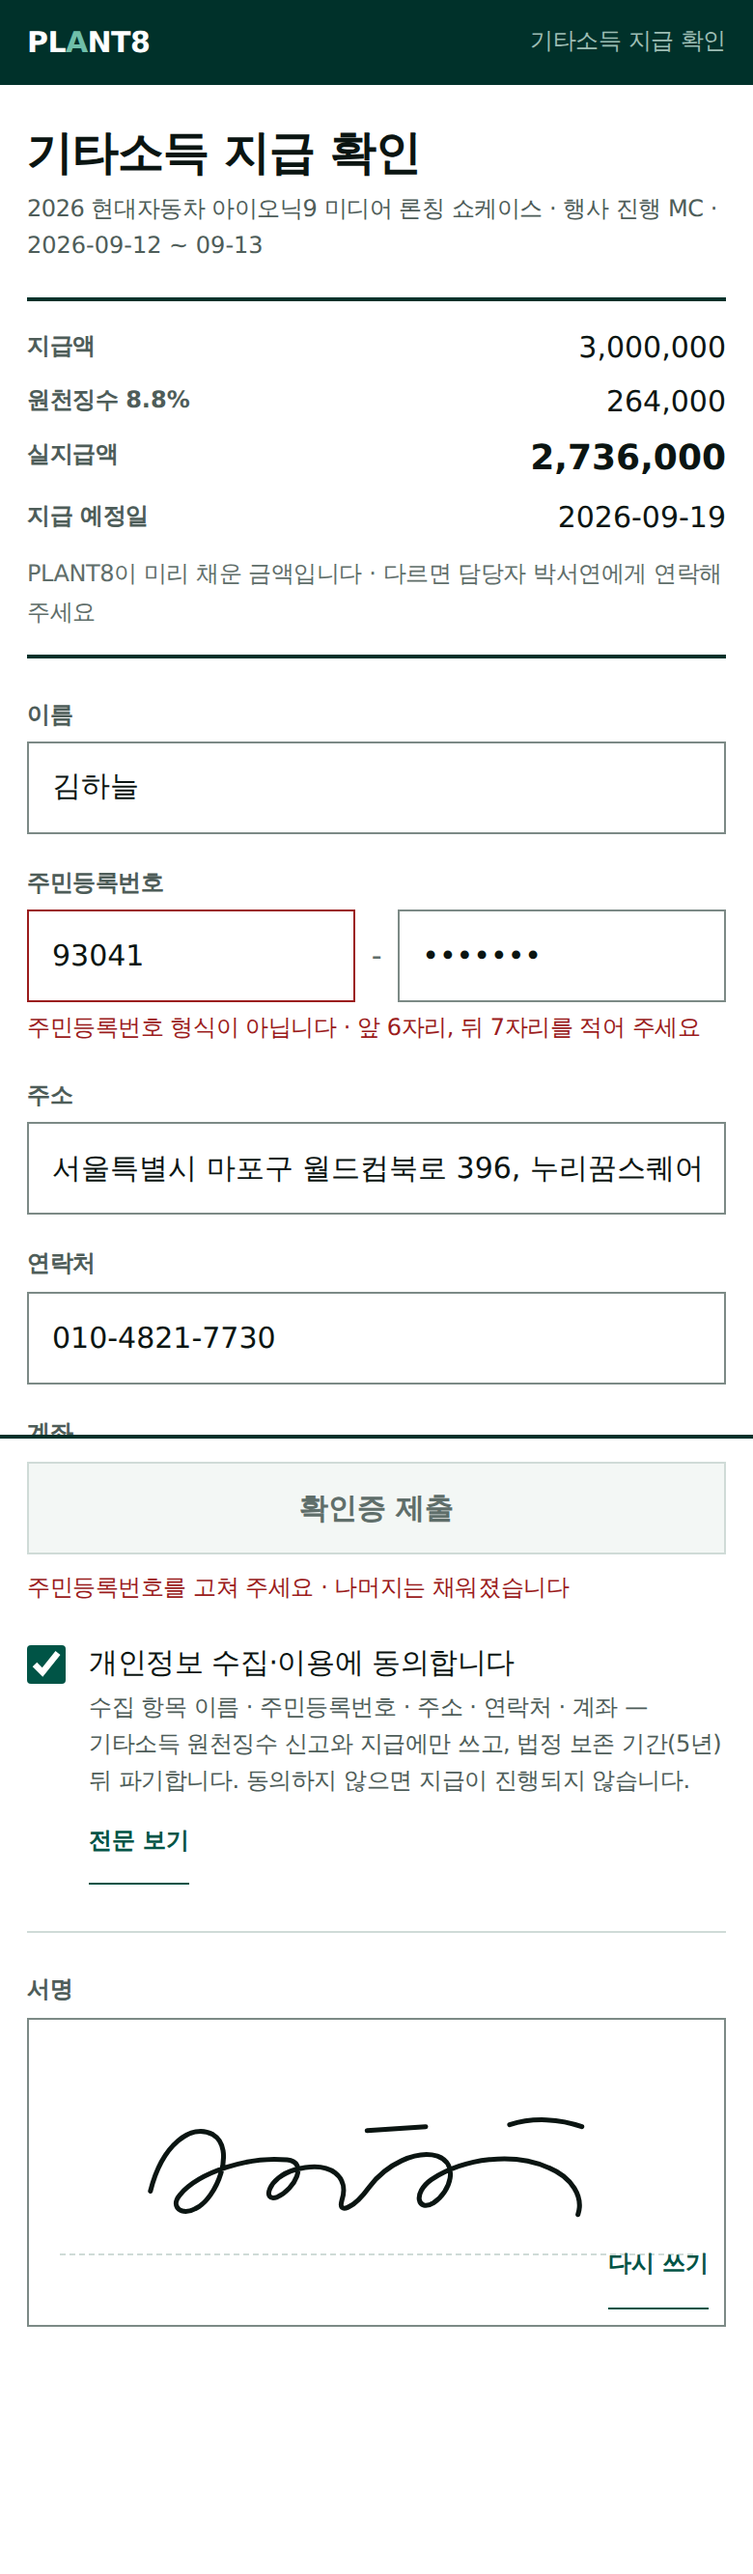
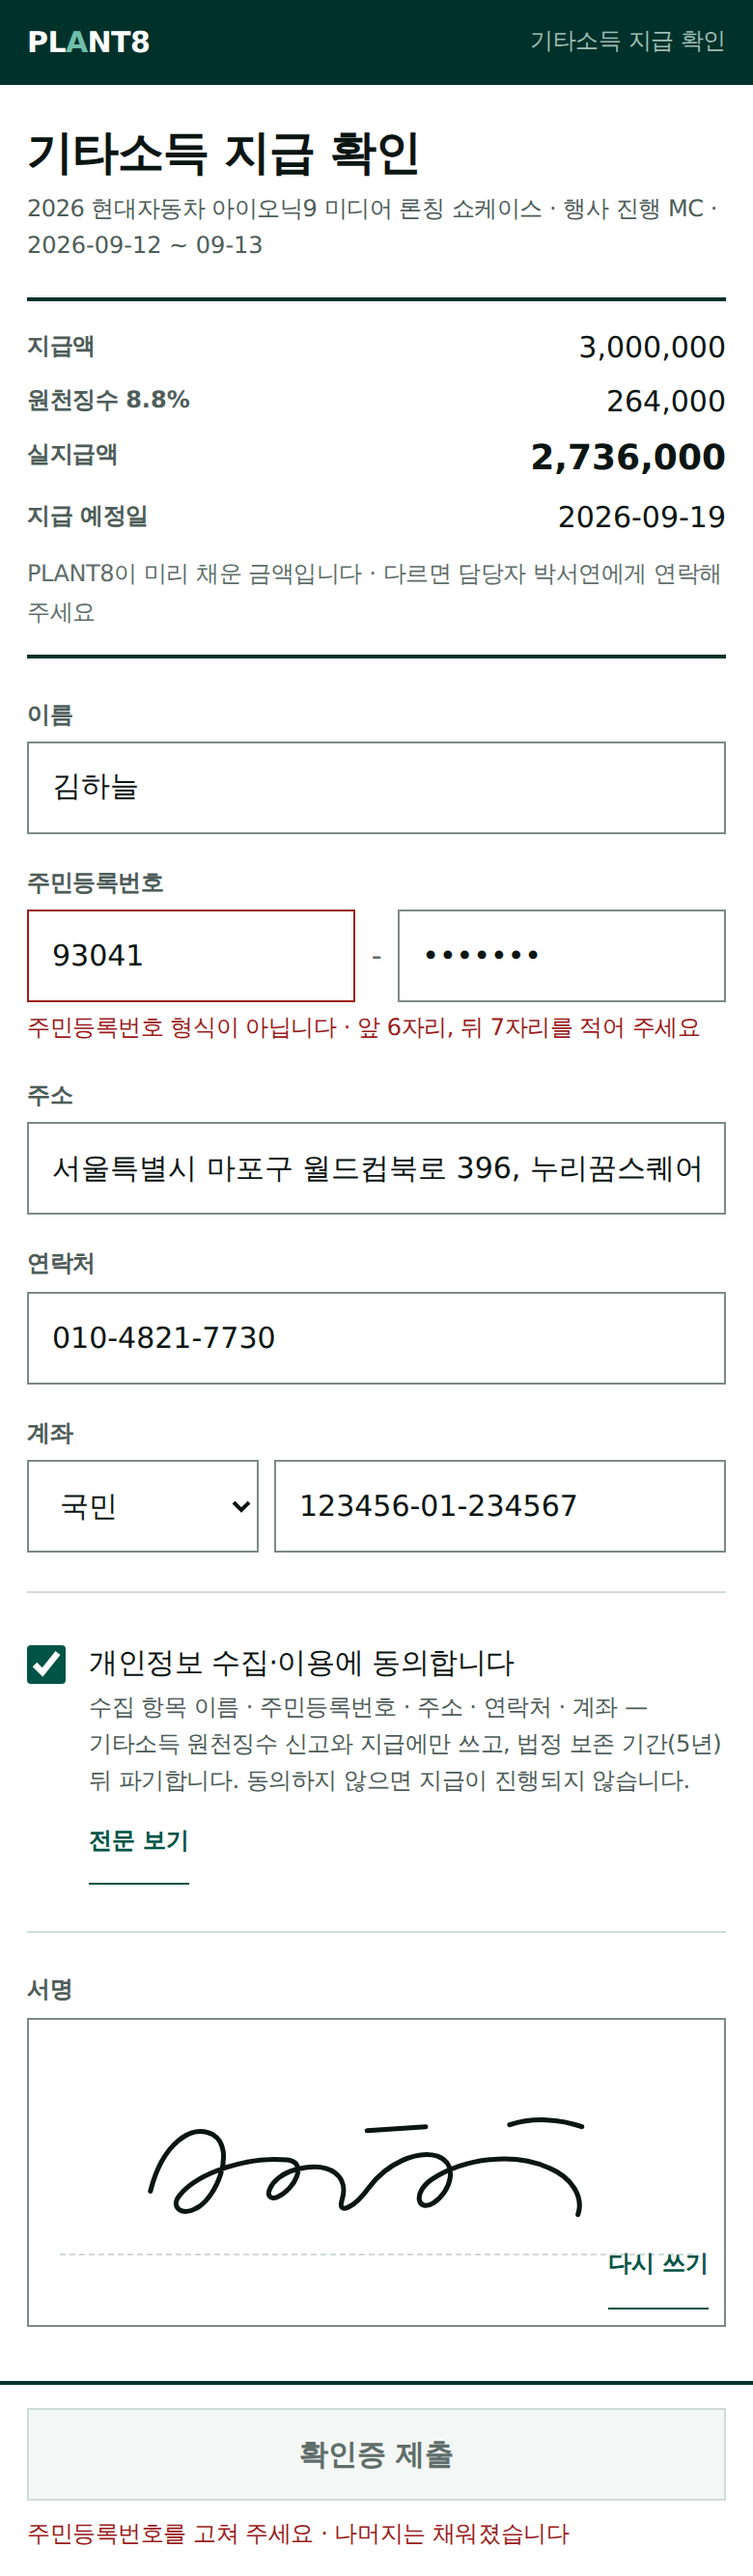
fix: 초안 폰 캡처 어긋남 3건 + 전체 캡처 뷰포트
- 손익 원장: 그룹 행·합계 행의 빈 첫 칸에 `rn`을 붙여 폰에서 숨김
  (그룹 머리·「합계」가 가운데로 밀리던 원인). 숫자·막대 열은 `width:1%`
- 외부 수령자: 제출 줄을 `position:fixed`에서 `main` 안 `sticky`로.
  화면 동작은 같고 전체 캡처에서 본문을 가리지 않는다
- shoot.mjs: 전체 캡처는 뷰포트를 문서 높이로 늘린 뒤 찍는다(고정 요소가
  문서 끝에 놓임). 손익 원장 폰 첫 화면 장면 `pnl-m-view` 추가

Claude-Session: https://claude.ai/code/session_01MwoSZSUG1tWADvG16RK3Ss

diff --git a/docs/design/system/dashboard-pnl.html b/docs/design/system/dashboard-pnl.html
@@ -106,6 +106,8 @@ body:not([data-scene="lead"]) .sub-lead{display:none}
   .next .why{display:block;font-size:var(--fs-sm)}
   .sec .right{margin-left:0;flex-basis:100%}
   .goal i{width:56px}
+  td.goalcell,thead th.goalcell{width:1%;white-space:nowrap}
+  tbody td.num,tfoot td.num{width:1%}
   .tabs{position:fixed;left:0;right:0;bottom:0;height:var(--touch-min);background:var(--bg);border-top:var(--line-w-strong) solid var(--line-strong);display:flex;z-index:var(--z-bar)}
   .tabs a{flex:1;display:flex;align-items:center;justify-content:center;font-size:var(--fs-sm);font-weight:var(--fw-medium);color:var(--muted);text-decoration:none}
   .tabs a[aria-current]{color:var(--accent);box-shadow:var(--inset-tab)}
@@ -147,7 +149,7 @@ body:not([data-scene="lead"]) .sub-lead{display:none}
       <th class="rn"></th><th>프로젝트</th><th class="p3 ceo-only">팀</th><th class="num p2">견적</th><th class="num p2">확정 비용</th><th class="num">수익</th><th class="num p3">수익률</th><th class="goalcell">목표 대비</th>
     </tr></thead>
     <tbody>
-      <tr class="grp"><td></td><td colspan="7">진행 중 <span class="num" style="text-align:left">5</span></td></tr>
+      <tr class="grp"><td class="rn"></td><td colspan="7">진행 중 <span class="num" style="text-align:left">5</span></td></tr>
       <tr>
         <td class="rn">1</td>
         <td>2026 현대자동차 아이오닉9 미디어 론칭 쇼케이스<span class="fold">기획1팀 · 견적 48,000,000 · 비용 22,400,000 · 25.2%</span></td>
@@ -178,7 +180,7 @@ body:not([data-scene="lead"]) .sub-lead{display:none}
         <td class="p3 ceo-only">기획2팀</td><td class="num p2">27,000,000</td><td class="num p2">19,800,000</td><td class="num">2,403,000</td><td class="num p3">8.9%</td>
         <td class="goalcell"><span class="goal"><span class="na">—</span></span></td>
       </tr>
-      <tr class="grp"><td></td><td colspan="7">완료 · 정산 <span class="num" style="text-align:left">2</span></td></tr>
+      <tr class="grp"><td class="rn"></td><td colspan="7">완료 · 정산 <span class="num" style="text-align:left">2</span></td></tr>
       <tr>
         <td class="rn">6</td>
         <td>신세계 VIP 라운지 리뉴얼<span class="fold">기획1팀 · 견적 210,000,000 · 비용 148,800,000 · <span class="st ok">정산 09-08</span></span></td>
@@ -194,7 +196,7 @@ body:not([data-scene="lead"]) .sub-lead{display:none}
       <tr class="empty-row"><td class="empty" colspan="8">이 기간에 프로젝트가 없습니다 · <button class="b3">기간 바꾸기</button></td></tr>
     </tbody>
     <tfoot><tr>
-      <td></td><td>합계<span class="lbl">계산된 것만 · 6건 · 계산 불가 1건 제외</span></td><td class="p3 ceo-only"></td>
+      <td class="rn"></td><td>합계<span class="lbl">계산된 것만 · 6건 · 계산 불가 1건 제외</span></td><td class="p3 ceo-only"></td>
       <td class="num p2 sub-ceo">482,000,000</td><td class="num p2 sub-ceo">324,900,000</td><td class="num sub-ceo">110,125,720</td><td class="num p3 sub-ceo">22.8%</td>
       <td class="num p2 sub-lead">322,000,000</td><td class="num p2 sub-lead">210,100,000</td><td class="num sub-lead">86,806,720</td><td class="num p3 sub-lead">27.0%</td>
       <td class="goalcell"><span class="goal"><i><b style="width:100%"></b></i><span>104%</span></span></td>

diff --git a/docs/design/system/external-cert.html b/docs/design/system/external-cert.html
@@ -27,7 +27,7 @@ button,input,select{font:inherit;color:inherit}
 .bar .mark i{font-style:normal;color:var(--bar-leaf)}
 .bar .r{margin-left:auto;color:var(--bar-muted)}
 .progress{height:2px;background:var(--accent);width:100%;display:none}
-main{padding:var(--s-5) var(--pad-page) 120px;max-width:480px}
+main{padding:var(--s-5) var(--pad-page) 0;max-width:480px}
 
 h1{font-size:var(--fs-xl);font-weight:var(--fw-bold);letter-spacing:var(--ls-head);line-height:var(--lh-tight)}
 .sub{font-size:var(--fs-sm);color:var(--muted);margin-top:var(--s-1)}
@@ -67,7 +67,7 @@ h1{font-size:var(--fs-xl);font-weight:var(--fw-bold);letter-spacing:var(--ls-hea
 .b3.sm{font-size:var(--fs-sm)}
 
 /* 제출 줄 (하단 고정) */
-.submit{position:fixed;left:0;right:0;bottom:0;background:var(--bg);border-top:var(--line-w-strong) solid var(--line-strong);padding:var(--s-3) var(--pad-page) calc(var(--s-3) + env(safe-area-inset-bottom,0px));display:flex;flex-direction:column;gap:var(--s-2);z-index:var(--z-bar)}
+.submit{position:sticky;bottom:0;margin:var(--s-5) calc(-1 * var(--pad-page)) 0;background:var(--bg);border-top:var(--line-w-strong) solid var(--line-strong);padding:var(--s-3) var(--pad-page) calc(var(--s-3) + env(safe-area-inset-bottom,0px));display:flex;flex-direction:column;gap:var(--s-2);z-index:var(--z-bar)}
 .btn{height:48px;padding:0 var(--s-4);font-size:var(--fs-md);font-weight:var(--fw-medium);border:var(--line-w) solid var(--accent);background:var(--accent);color:#fff;cursor:pointer;border-radius:var(--radius);display:inline-flex;align-items:center;justify-content:center;width:100%}
 .btn:disabled{background:var(--surface);border-color:var(--line);color:var(--faint);cursor:not-allowed}
 .blocked{font-size:var(--fs-sm);color:var(--danger)}
@@ -147,14 +147,13 @@ body[data-scene="error"] .sig svg{display:block}
     <p><b>이미 제출된 링크입니다</b></p>
     <p class="who">김하늘 · <span class="num">2026-09-20 18:42</span> 제출됨. 내용을 고치려면 담당자 박서연 · PLANT8 경영관리에 연락해 주세요</p>
   </section>
-</main>
-
 <div class="submit">
   <button class="btn" disabled aria-describedby="why">확인증 제출</button>
   <span class="blocked s-empty" id="why">이름 · 주민등록번호 · 주소 · 연락처 · 계좌 · 동의 · 서명을 채우면 제출할 수 있습니다</span>
   <span class="blocked s-sign">서명을 해 주세요</span>
   <span class="blocked s-error">주민등록번호를 고쳐 주세요 · 나머지는 채워졌습니다</span>
 </div>
+</main>
 
 <script>
 (function(){
